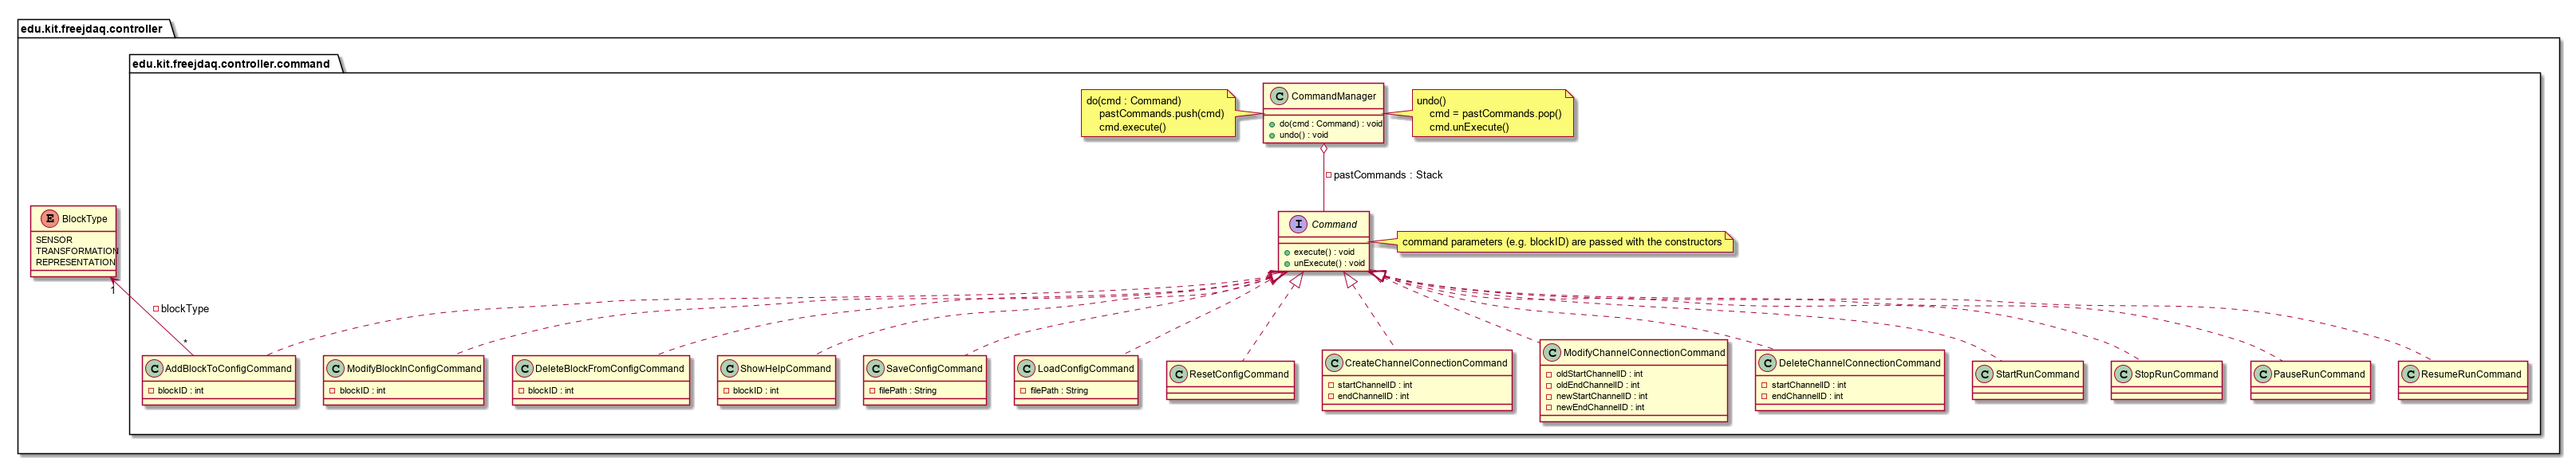
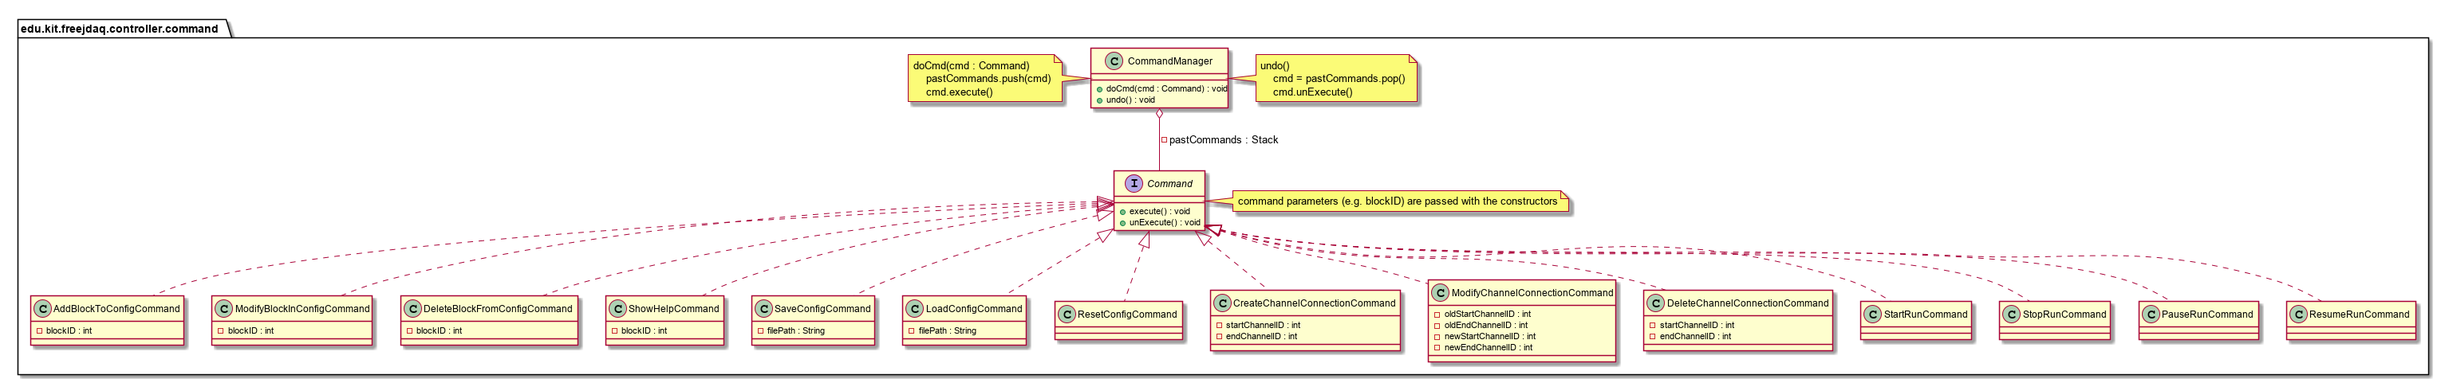
prototypen hinzugefügt

diff --git a/2-Entwurf/2-Entwicklung/src/edu/kit/freejdaq/controller/SaveConfigCommand.java b/2-Entwurf/2-Entwicklung/src/edu/kit/freejdaq/controller/SaveConfigCommand.java
@@ -1,0 +1,35 @@
+package edu.kit.freejdaq.controller;
+
+import java.io.FileNotFoundException;
+
+import edu.kit.freejdaq.fileservice.YamlService;
+
+/**
+ * Command pattern prototype
+ * @author Jan
+ *
+ */
+public class SaveConfigCommand implements Command {
+	
+	private String filePath;
+	
+	public SaveConfigCommand(String path) {
+		filePath = path;
+	}
+
+	@Override
+	public void execute() throws FileNotFoundException {
+
+		Object data = null; // must get data from model
+		
+		YamlService.save(filePath, data); // save data as YAML
+
+	}
+
+	@Override
+	public void unExecute() throws FileNotFoundException {
+		// TODO Auto-generated method stub
+
+	}
+
+}

diff --git a/2-Entwurf/2-Entwicklung/src/edu/kit/freejdaq/controller/LoadConfigCommand.java b/2-Entwurf/2-Entwicklung/src/edu/kit/freejdaq/controller/LoadConfigCommand.java
@@ -1,0 +1,35 @@
+package edu.kit.freejdaq.controller;
+
+import java.io.FileNotFoundException;
+
+import edu.kit.freejdaq.fileservice.YamlService;
+
+/**
+ * Command pattern prototype
+ * @author Jan
+ *
+ */
+public class LoadConfigCommand implements Command {
+	
+	private String filePath;
+	
+	public LoadConfigCommand(String path) {
+		filePath = path;
+	}
+
+	@Override
+	public void execute() throws FileNotFoundException {
+
+		Object data = YamlService.load(filePath); // extract data from YAML
+		
+		// work further with data/pass to model
+		
+	}
+
+	@Override
+	public void unExecute() {
+		// TODO Auto-generated method stub
+
+	}
+
+}

diff --git a/2-Entwurf/2-Entwicklung/src/edu/kit/freejdaq/controller/CommandManager.java b/2-Entwurf/2-Entwicklung/src/edu/kit/freejdaq/controller/CommandManager.java
@@ -1,0 +1,25 @@
+package edu.kit.freejdaq.controller;
+
+import java.io.FileNotFoundException;
+import java.util.Stack;
+
+/**
+ * Command pattern prototype
+ * @author Jan
+ *
+ */
+public class CommandManager {
+	
+	private Stack<Command> pastCommands;
+	
+	public void doCmd(Command cmd) throws FileNotFoundException {
+		pastCommands.push(cmd);
+		cmd.execute();
+	}
+	
+	public void undo( ) throws FileNotFoundException {
+		Command cmd = pastCommands.pop();
+		cmd.unExecute();
+	}
+
+}

diff --git a/2-Entwurf/2-Entwicklung/src/edu/kit/freejdaq/controller/Command.java b/2-Entwurf/2-Entwicklung/src/edu/kit/freejdaq/controller/Command.java
@@ -1,0 +1,16 @@
+package edu.kit.freejdaq.controller;
+
+import java.io.FileNotFoundException;
+
+/**
+ * Command pattern prototype
+ * @author Jan
+ *
+ */
+public interface Command {
+	
+	public void execute() throws FileNotFoundException;
+	
+	public void unExecute() throws FileNotFoundException;
+	
+}
